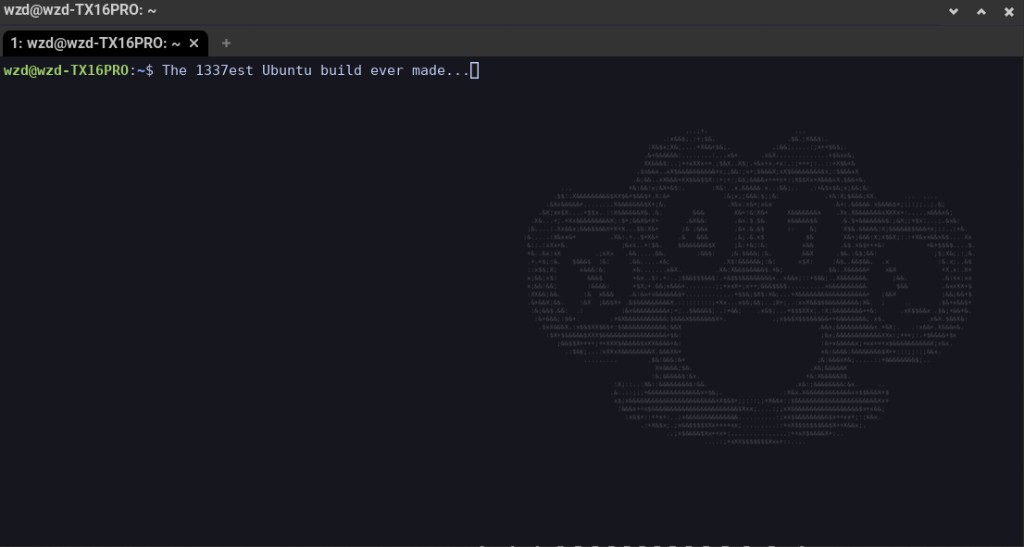
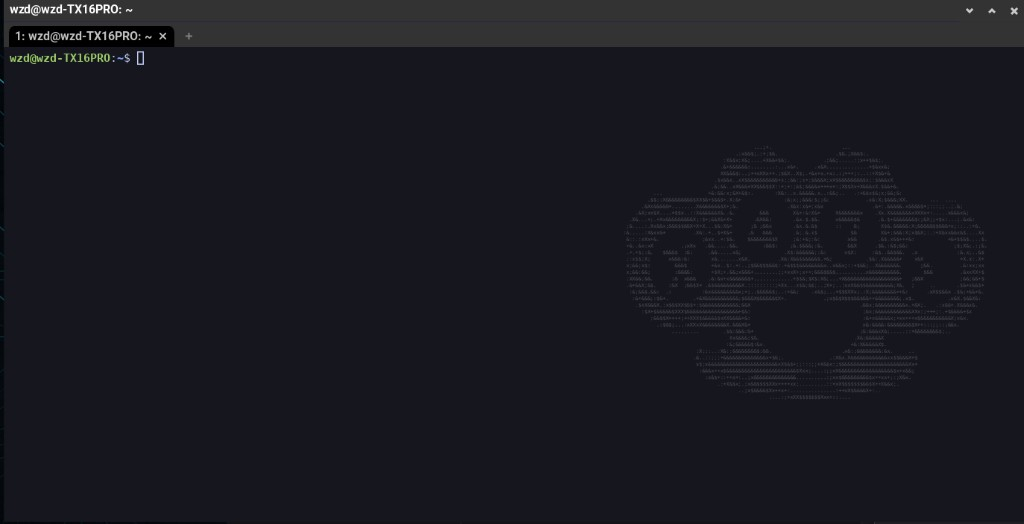
WezTerm compact chrome + refresh docs screenshots
Match the reference spawn size, drop the OS title bar (window controls
on the tab bar), and update the docs hero/WezTerm shots to the current
desktop with Linux CMD Helper.

diff --git a/docs/index.html b/docs/index.html
@@ -37,8 +37,8 @@
         <a class="btn btn-ghost" href="https://buymeacoffee.com/sk1tzwzd">Buy me a coffee</a>
       </div>
       <figure class="shot">
-        <img src="images/vulnscape-desktop.png" alt="Ubuntu X47 desktop with VulnScape toolkit in the terminal" width="1600" height="1000" />
-        <figcaption>X47 desktop with VulnScape — part of the cybersecurity suite bundled for amnesia and the main session.</figcaption>
+        <img src="images/x47-desktop.png" alt="Ubuntu X47 desktop with ASCII duster wallpaper, bottom dock, and Linux CMD Helper widget" width="1600" height="1000" />
+        <figcaption>X47 desktop — ASCII duster wallpaper, bottom dock, and the Linux CMD Helper widget.</figcaption>
       </figure>
     </header>
 
@@ -96,11 +96,11 @@ sha256sum -c SHA256SUMS --ignore-missing</code></pre>
 
       <section>
         <h2>More screenshots</h2>
-        <p class="section-lead">Additional captures will be added here. Placeholders mark the slots.</p>
+        <p class="section-lead">WezTerm, the command helper, and the optional amnesia session.</p>
         <div class="gallery two">
           <figure class="shot">
-            <img src="images/wezterm-watermark.png" alt="WezTerm with X47 watermark" width="1600" height="1000" />
-            <figcaption>WezTerm with the X47 watermark on the right.</figcaption>
+            <img src="images/wezterm-watermark.png" alt="WezTerm with X47 watermark and integrated tab-bar controls" width="1600" height="1000" />
+            <figcaption>WezTerm — X47 watermark on the right; title bar removed, window controls on the tab bar.</figcaption>
           </figure>
           <figure class="shot">
             <img src="images/anon-desktop.png" alt="Amnesia anon session with Tor check and persistent storage" width="1600" height="1000" />

diff --git a/docs/install.html b/docs/install.html
@@ -41,6 +41,10 @@ chmod +x install.sh snapshot.sh modules/*.sh
           Optional amnesia user (Tor-forced <code>anon</code>):
         </p>
         <pre><code>./install.sh --with-amnesia</code></pre>
+        <figure class="shot" style="margin-top:1.5rem">
+          <img src="images/x47-desktop.png" alt="Finished X47 desktop after install" width="1600" height="1000" />
+          <figcaption>What you get after install — dock, wallpaper, Linux CMD Helper.</figcaption>
+        </figure>
       </section>
 
       <section>

diff --git a/README.md b/README.md
@@ -2,7 +2,7 @@
 
 Idempotent installer that reproduces a custom Ubuntu 24.04 / 26 desktop:
 
-- **WezTerm** as the default terminal (wide window so the **X47 watermark** sits on the right); GNOME Terminal is removed
+- **WezTerm** as the default terminal (compact spawn size, **X47 watermark** on the right, no OS title bar — minimize/maximize/close live on the tab bar); GNOME Terminal is removed
 - **Mullvad VPN** (apt) and **Tor Browser** (latest from Tor Project, registered in the app menu)
 - Pentest + developer toolchain (apt, Go, pipx, cargo, GitHub release binaries, gems)
 - Custom **app-grid launchers** and icons (`kali-*` pack, custom `kali-cool-*`, `x47duster` fallback — no Kali dragon)
@@ -112,7 +112,7 @@ To build it yourself: `sudo apt install xorriso`, then `./scripts/build-iso.sh` 
 ### Terminal
 - WezTerm AppImage under `~/tools/wezterm`
 - Wrapper at `~/.local/bin/wezterm`
-- Config: `~/.config/wezterm/wezterm.lua` (`initial_cols=160`, `initial_rows=48`) + watermark `~/.config/wzd/watermark.png`
+- Config: `~/.config/wezterm/wezterm.lua` (compact spawn, `INTEGRATED_BUTTONS` tab-bar chrome) + watermark `~/.config/wzd/watermark.png`
 - Default terminal via `xdg-terminals.list` + GNOME gsettings; GNOME Terminal purged / hidden
 
 ### Privacy

diff --git a/CHANGELOG.md b/CHANGELOG.md
@@ -1,5 +1,15 @@
 # Changelog
 
+## v1.9.1 — 2026-08-05
+
+### Terminal
+- WezTerm spawn sized to the reference window (~128×30 / ~1008×450 inner).
+- **No OS title bar** — `INTEGRATED_BUTTONS|RESIZE`; Hide / Maximize / Close sit on the right of the tab bar.
+- Docs site hero + WezTerm screenshots refreshed to the current desktop (ASCII wallpaper, CMD Helper, dock).
+
+### Fixes
+- Linux CMD Helper stacking confirmed after login (visible top-right above desktop icons).
+
 ## v1.9.0 — 2026-08-05
 
 ### Desktop widget
